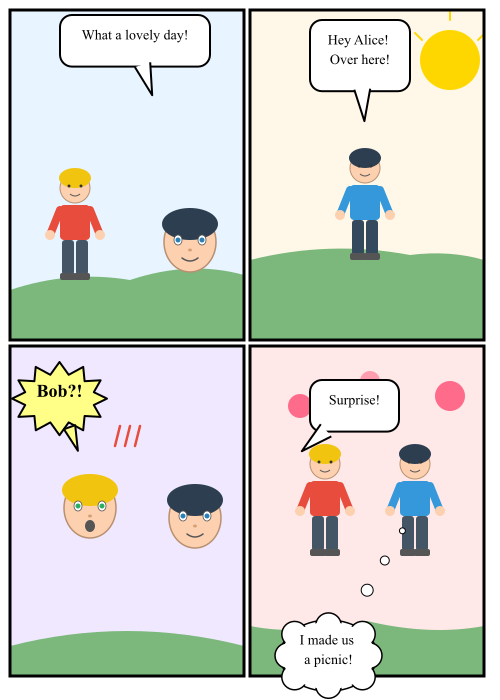
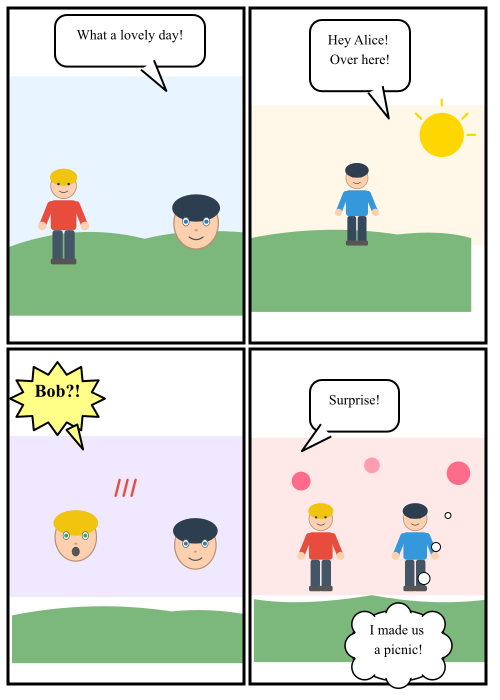
Add viewport element type with auto-scaling viewBox
Viewport is a container with its own coordinate system. Children
use local coordinates; the viewport auto-computes a viewBox from
content bounds and scales everything to fit the outer dimensions.
Renders as a nested <svg> element with native viewBox support.

Features:
- Auto-fit: content bounding box computed, padded, and scaled
- Explicit viewBox override for manual control
- Optional clipping (clip field, default true)
- Background fill and border via style
- Works with existing layout system (row, column, grid)

Manga example updated to use viewports instead of panels.

diff --git a/render/svg.go b/render/svg.go
@@ -90,6 +90,8 @@ func renderElement(sb *strings.Builder, el *scene.Element, s *scene.Scene, inden
 		renderGroup(sb, el, s, indent)
 	case "panel":
 		renderPanel(sb, el, s, indent)
+	case "viewport":
+		renderViewport(sb, el, s, indent)
 	}
 }
 
@@ -405,6 +407,119 @@ func renderPanel(sb *strings.Builder, el *scene.Element, s *scene.Scene, indent 
 
 	sb.WriteString(indent)
 	sb.WriteString("</g>\n")
+}
+
+func renderViewport(sb *strings.Builder, el *scene.Element, s *scene.Scene, indent string) {
+	x, y := el.EffectiveX(), el.EffectiveY()
+	outerW := el.EffectiveWidth()
+	outerH := el.EffectiveHeight()
+
+	// Compute viewBox from explicit setting or children bounds
+	var vbX, vbY, vbW, vbH float64
+	if el.ViewBox != nil {
+		vbX = el.ViewBox.X
+		vbY = el.ViewBox.Y
+		vbW = el.ViewBox.Width
+		vbH = el.ViewBox.Height
+	} else {
+		// Auto-compute from children bounding box
+		var minX, minY float64
+		minX, minY = math.Inf(1), math.Inf(1)
+		var maxX, maxY float64
+
+		for _, child := range el.Children {
+			cx := child.EffectiveX()
+			cy := child.EffectiveY()
+			if cx < minX {
+				minX = cx
+			}
+			if cy < minY {
+				minY = cy
+			}
+			right := cx + child.ComputedWidth
+			bottom := cy + child.ComputedHeight
+			if right > maxX {
+				maxX = right
+			}
+			if bottom > maxY {
+				maxY = bottom
+			}
+		}
+
+		if math.IsInf(minX, 1) {
+			minX = 0
+		}
+		if math.IsInf(minY, 1) {
+			minY = 0
+		}
+
+		// Add padding around content
+		pad := 10.0
+		if el.Padding != nil {
+			pad = *el.Padding
+		}
+		vbX = minX - pad
+		vbY = minY - pad
+		vbW = (maxX - minX) + pad*2
+		vbH = (maxY - minY) + pad*2
+
+		if vbW <= 0 {
+			vbW = outerW
+		}
+		if vbH <= 0 {
+			vbH = outerH
+		}
+	}
+
+	style := resolveStyle(el, s)
+
+	// Determine clipping
+	clip := true
+	if el.Clip != nil {
+		clip = *el.Clip
+	}
+
+	overflow := "hidden"
+	if !clip {
+		overflow = "visible"
+	}
+
+	// Render as nested <svg> with viewBox
+	sb.WriteString(indent)
+	fmt.Fprintf(sb, `<svg x="%s" y="%s" width="%s" height="%s" viewBox="%s %s %s %s" overflow="%s"`,
+		ff(x), ff(y), ff(outerW), ff(outerH),
+		ff(vbX), ff(vbY), ff(vbW), ff(vbH), overflow)
+	if el.ID != "" {
+		fmt.Fprintf(sb, ` id="%s"`, escAttr(el.ID))
+	}
+	sb.WriteString(">\n")
+
+	// Background fill
+	if style != nil && style.Fill != "" {
+		fmt.Fprintf(sb, `%s  <rect x="%s" y="%s" width="%s" height="%s" fill="%s"/>`,
+			indent, ff(vbX), ff(vbY), ff(vbW), ff(vbH), escAttr(style.Fill))
+		sb.WriteByte('\n')
+	}
+
+	// Render children
+	for _, child := range el.Children {
+		renderElement(sb, child, s, indent+"  ")
+	}
+
+	sb.WriteString(indent)
+	sb.WriteString("</svg>\n")
+
+	// Border rect outside the nested svg (in parent coordinate space)
+	if style != nil && style.Stroke != "" {
+		strokeWidth := 2.0
+		if style.StrokeWidth != nil {
+			strokeWidth = *style.StrokeWidth
+		}
+		sb.WriteString(indent)
+		fmt.Fprintf(sb, `<rect x="%s" y="%s" width="%s" height="%s" fill="none" stroke="%s" stroke-width="%s"/>`,
+			ff(x), ff(y), ff(outerW), ff(outerH), escAttr(style.Stroke), ff(strokeWidth))
+		sb.WriteByte('\n')
+	}
 }
 
 // resolveStyle merges class + inline styles for an element.

diff --git a/layout/layout.go b/layout/layout.go
@@ -114,9 +114,27 @@ func measure(el *scene.Element, s *scene.Scene) {
 	case "panel":
 		el.ComputedWidth = valOr(el.Width, 300)
 		el.ComputedHeight = valOr(el.Height, 200)
-		// Measure children inside panel
 		for _, child := range el.Children {
 			measure(child, s)
+		}
+
+	case "viewport":
+		// Measure children first to compute content bounds
+		for _, child := range el.Children {
+			measure(child, s)
+		}
+		// Outer size: explicit or computed from content
+		if el.Width != nil {
+			el.ComputedWidth = *el.Width
+		} else {
+			cw, _ := childBounds(el.Children)
+			el.ComputedWidth = cw + 20 // padding
+		}
+		if el.Height != nil {
+			el.ComputedHeight = *el.Height
+		} else {
+			_, ch := childBounds(el.Children)
+			el.ComputedHeight = ch + 20
 		}
 
 	case "bubble":
@@ -441,6 +459,23 @@ func resolveStyleForLayout(el *scene.Element, s *scene.Scene) *scene.Style {
 		classStyle = s.Styles[el.Class]
 	}
 	return scene.ResolveStyle(classStyle, el.Style)
+}
+
+// childBounds computes the bounding box extent of all children.
+func childBounds(children []*scene.Element) (maxX, maxY float64) {
+	for _, child := range children {
+		x := valOr(child.X, child.ComputedX)
+		y := valOr(child.Y, child.ComputedY)
+		right := x + child.ComputedWidth
+		bottom := y + child.ComputedHeight
+		if right > maxX {
+			maxX = right
+		}
+		if bottom > maxY {
+			maxY = bottom
+		}
+	}
+	return
 }
 
 func measureBubble(el *scene.Element, s *scene.Scene) {

diff --git a/scene/scene.go b/scene/scene.go
@@ -74,6 +74,11 @@ type Element struct {
 	// Conditional (for pattern elements)
 	If string `json:"if,omitempty"`
 
+	// Viewport fields
+	Clip    *bool    `json:"clip,omitempty"`    // clip content to viewport bounds (default true)
+	ViewBox *ViewBox `json:"viewBox,omitempty"` // explicit content region; auto-computed if nil
+	Padding *float64 `json:"padding,omitempty"` // viewport inner padding (default 10)
+
 	// Computed by layout engine (not serialized)
 	ComputedX      float64 `json:"-"`
 	ComputedY      float64 `json:"-"`
@@ -116,6 +121,14 @@ type Layout struct {
 	Columns    int     `json:"columns,omitempty"`
 	CellWidth  float64 `json:"cellWidth,omitempty"`
 	CellHeight float64 `json:"cellHeight,omitempty"`
+}
+
+// ViewBox defines the content coordinate region for a viewport.
+type ViewBox struct {
+	X      float64 `json:"x"`
+	Y      float64 `json:"y"`
+	Width  float64 `json:"width"`
+	Height float64 `json:"height"`
 }
 
 // Def is a reusable pattern/template definition.

diff --git a/scene/parse.go b/scene/parse.go
@@ -85,6 +85,8 @@ func applyElementDefaults(el *Element) {
 		if el.Height == nil {
 			el.Height = Ptr(200)
 		}
+	case "viewport":
+		// viewport size can be set by layout; no hard defaults
 	}
 
 	if el.Layout != nil && el.Layout.Type == "" {

diff --git a/scene/validate.go b/scene/validate.go
@@ -20,6 +20,7 @@ var knownTypes = map[string]bool{
 	"arrow":    true,
 	"panel":    true,
 	"bubble":   true,
+	"viewport": true,
 }
 
 // Validate checks a parsed Scene for structural errors.
